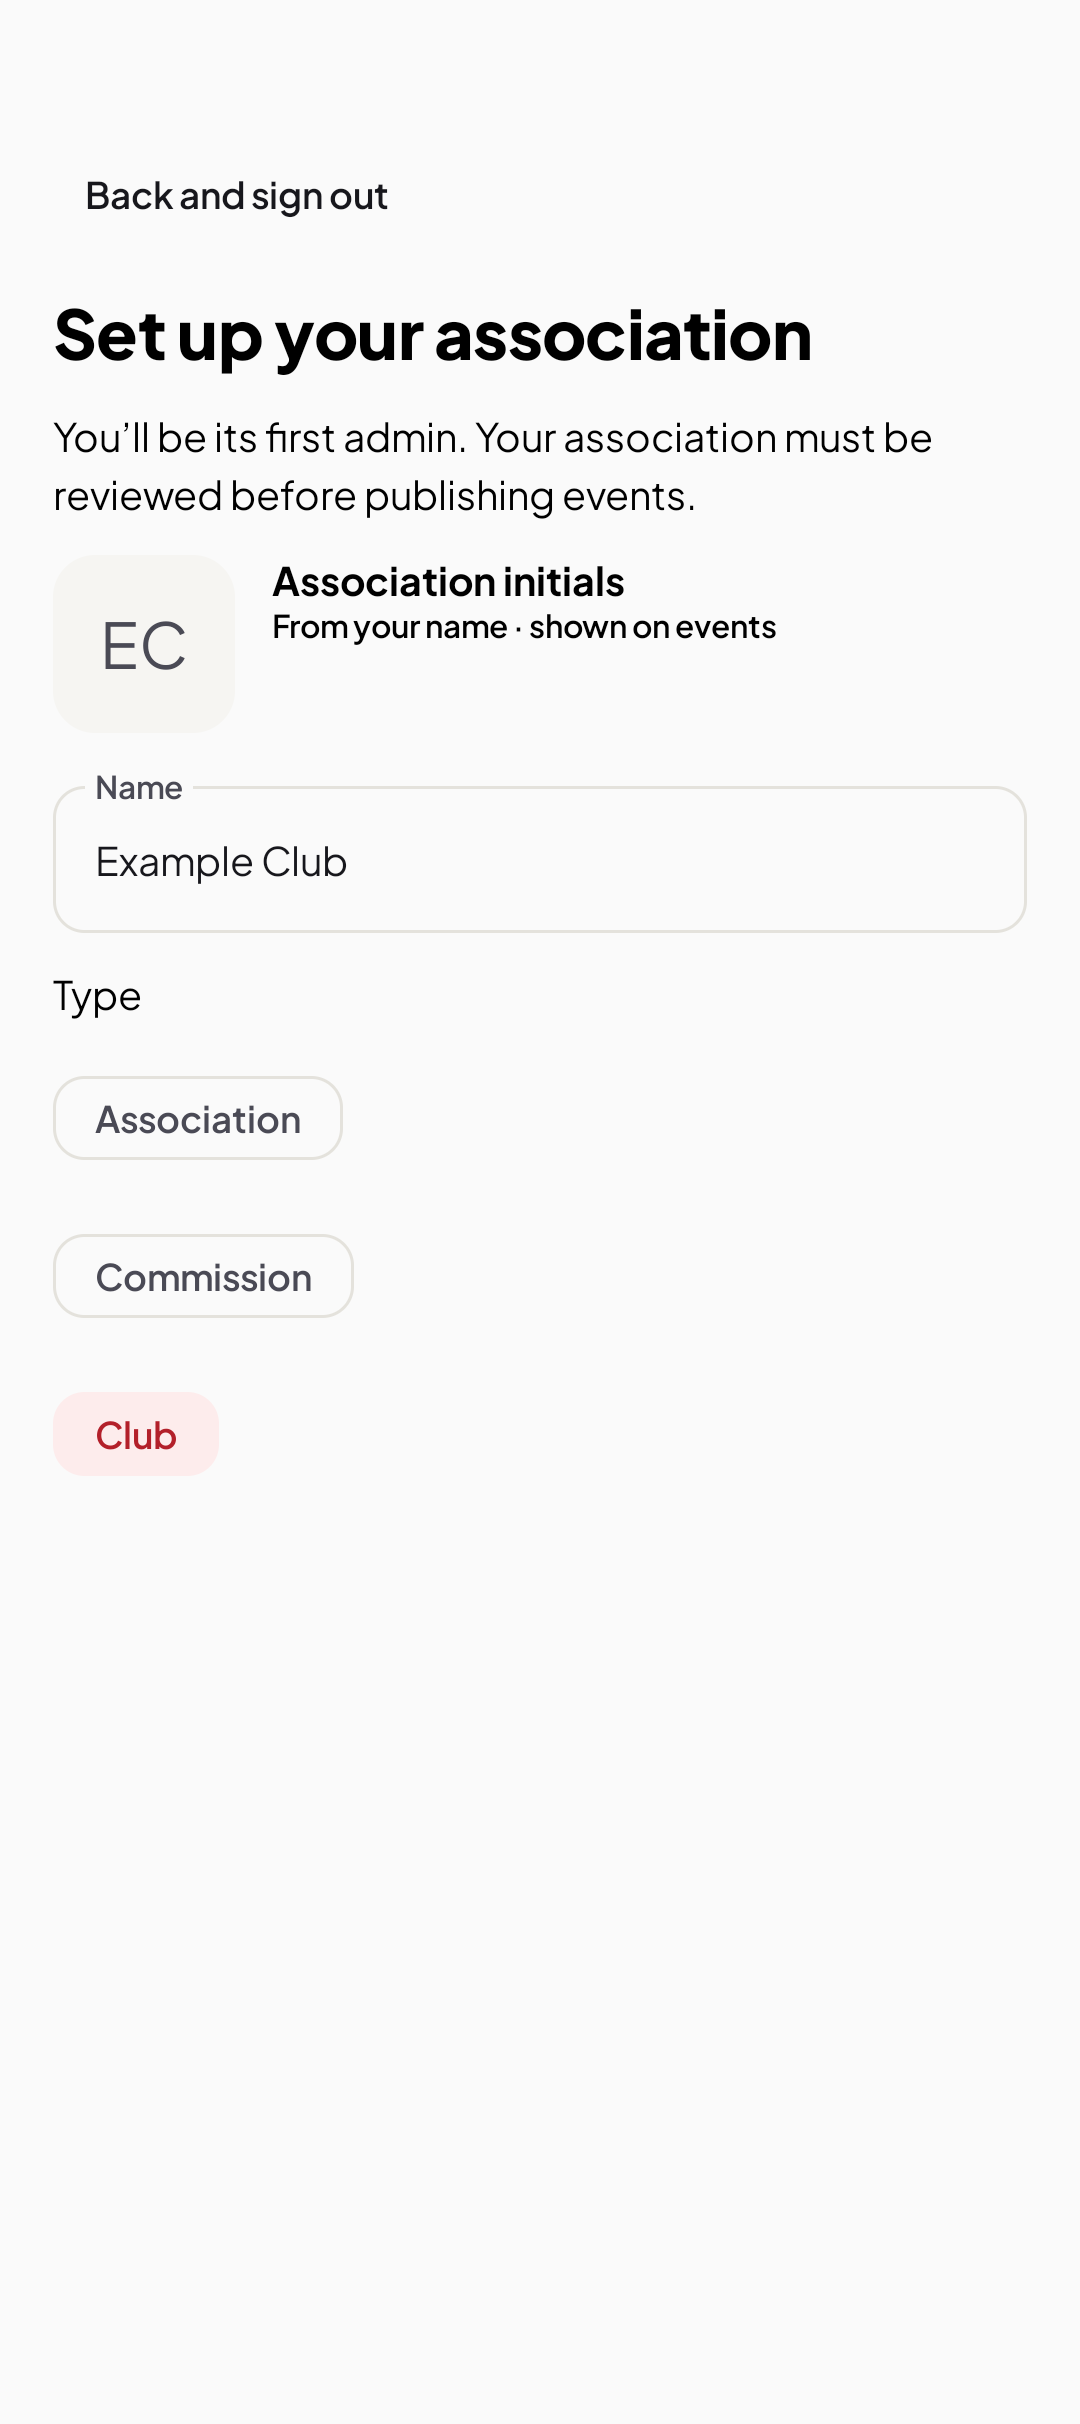
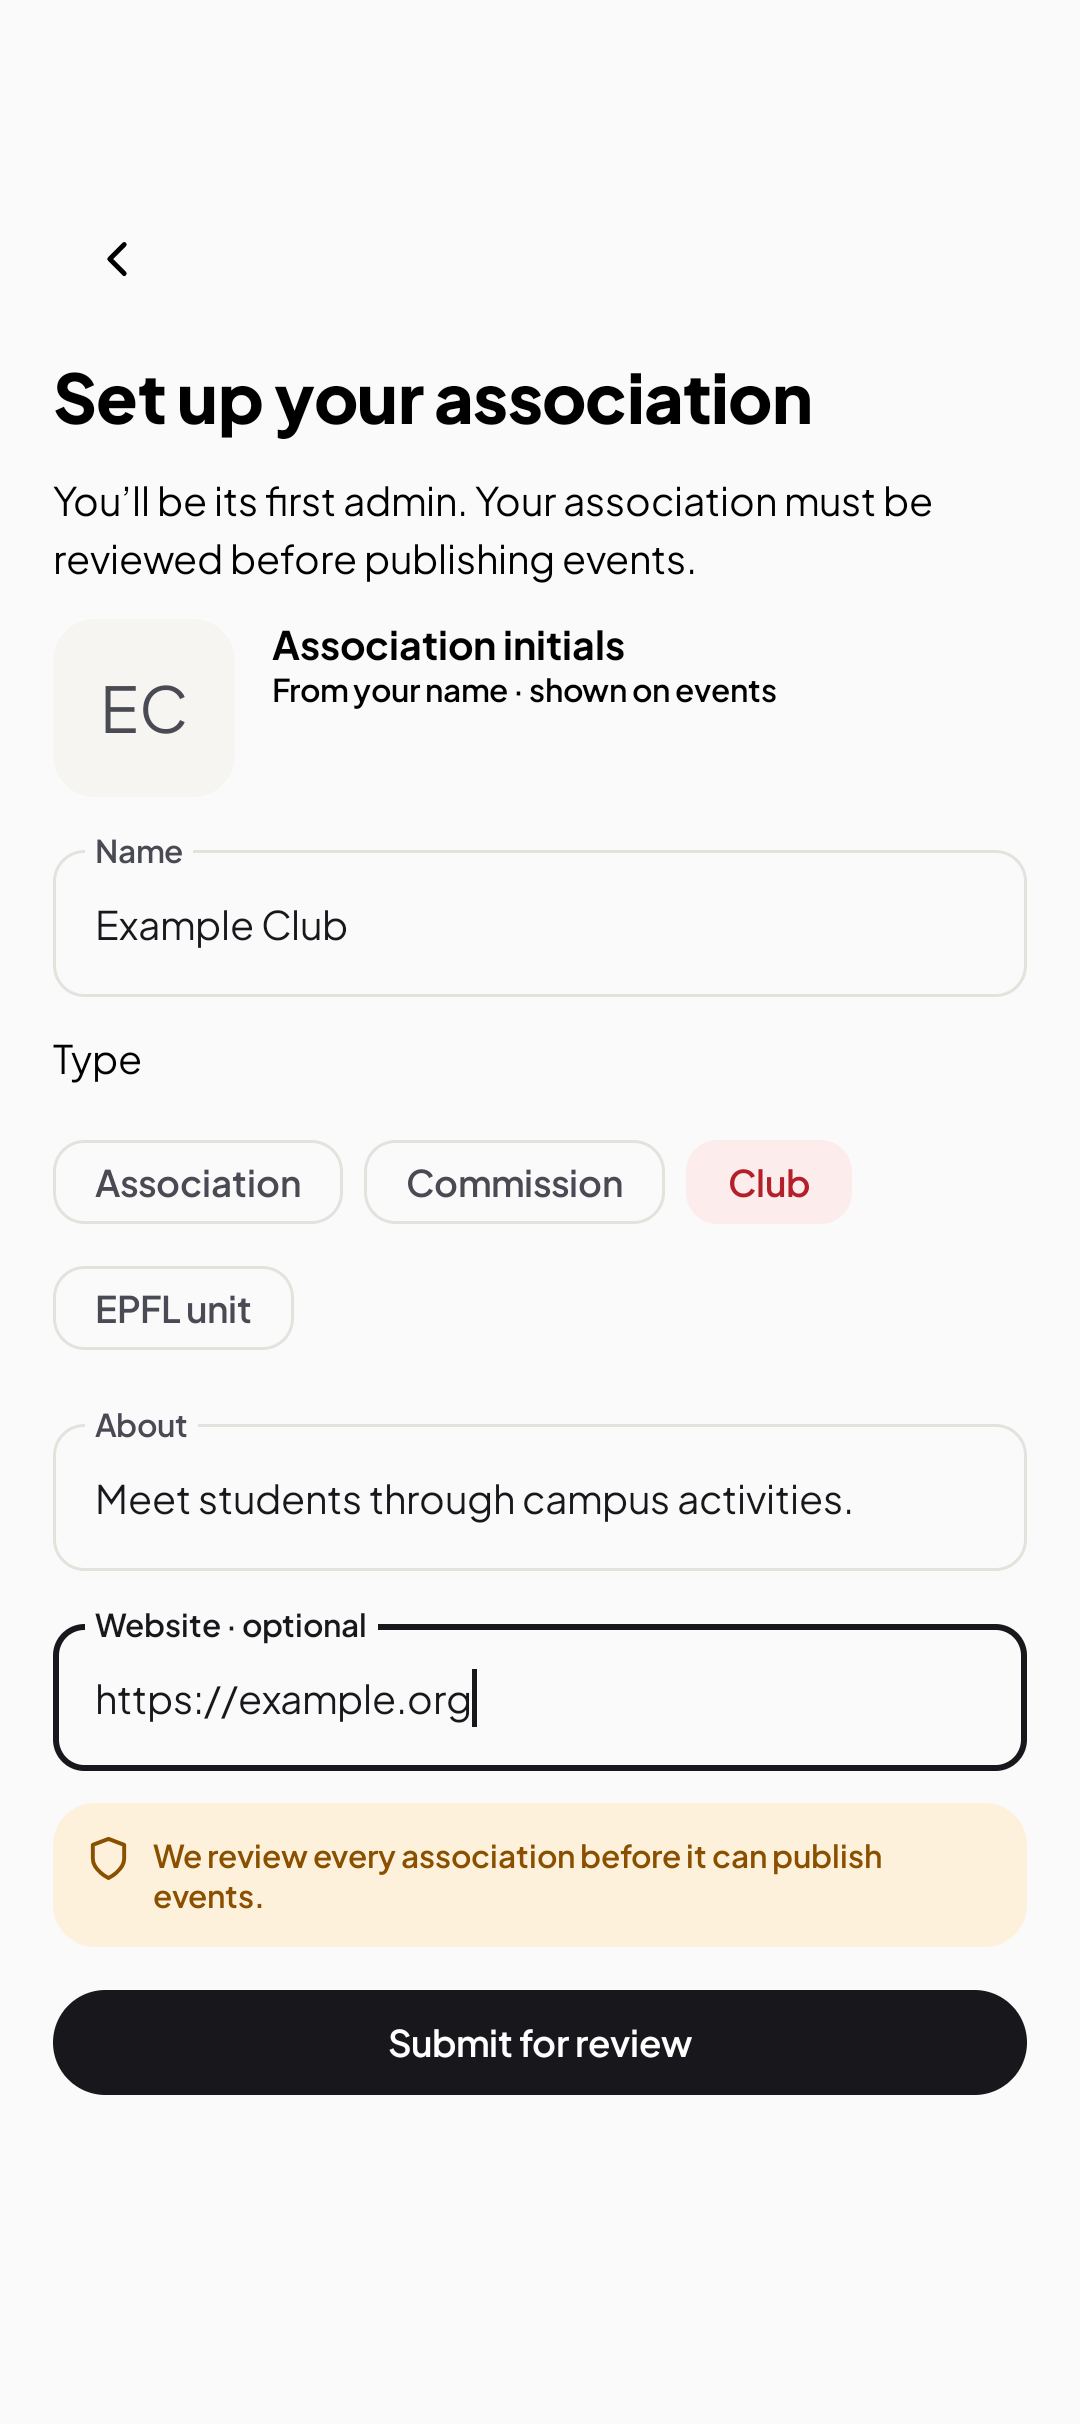
fix(ui): match the association review notice

diff --git a/app/src/main/java/com/polysocial/ui/association/AssociationSetupScreen.kt b/app/src/main/java/com/polysocial/ui/association/AssociationSetupScreen.kt
@@ -7,14 +7,19 @@ import androidx.compose.foundation.rememberScrollState
 import androidx.compose.foundation.verticalScroll
 import androidx.compose.material3.*
 import androidx.compose.runtime.*
+import androidx.compose.ui.Alignment
 import androidx.compose.ui.Modifier
 import androidx.compose.ui.platform.testTag
+import androidx.compose.ui.res.painterResource
 import androidx.compose.ui.res.stringResource
+import androidx.compose.ui.text.font.FontWeight
 import androidx.compose.ui.unit.dp
 import androidx.hilt.lifecycle.viewmodel.compose.hiltViewModel
 import androidx.lifecycle.compose.collectAsStateWithLifecycle
 import com.polysocial.R
 import com.polysocial.model.association.AssociationType
+import com.polysocial.ui.theme.Warning
+import com.polysocial.ui.theme.WarningSoft
 
 object AssociationSetupTags {
   const val Screen = "association_setup"
@@ -22,6 +27,7 @@ object AssociationSetupTags {
   const val Back = "association_setup_back"
   const val Error = "association_setup_error"
   const val Initials = "association_setup_initials"
+  const val ReviewNotice = "association_setup_review_notice"
 
   fun field(field: AssociationSetupField) = "association_setup_${field.name}"
 
@@ -73,8 +79,12 @@ fun AssociationSetupScreen(
           .testTag(AssociationSetupTags.Screen),
       verticalArrangement = Arrangement.spacedBy(12.dp),
   ) {
-    TextButton(onBack, enabled = enabled, modifier = Modifier.testTag(AssociationSetupTags.Back)) {
-      Text(stringResource(R.string.association_setup_back))
+    IconButton(onBack, enabled = enabled, modifier = Modifier.testTag(AssociationSetupTags.Back)) {
+      Icon(
+          painterResource(R.drawable.signup_back),
+          contentDescription = stringResource(R.string.association_setup_back),
+          modifier = Modifier.size(22.dp),
+      )
     }
     Text(
         stringResource(R.string.association_setup_title),
@@ -142,7 +152,30 @@ fun AssociationSetupScreen(
               modifier = Modifier.testTag("${AssociationSetupTags.field(field)}_error"),
           )
     }
-    Text(stringResource(R.string.association_review_notice))
+    Surface(
+        color = WarningSoft,
+        shape = MaterialTheme.shapes.medium,
+        modifier = Modifier.fillMaxWidth().testTag(AssociationSetupTags.ReviewNotice),
+    ) {
+      Row(
+          Modifier.padding(12.dp),
+          horizontalArrangement = Arrangement.spacedBy(8.dp),
+          verticalAlignment = Alignment.Top,
+      ) {
+        Icon(
+            painterResource(R.drawable.ic_shield),
+            contentDescription = null,
+            tint = Warning,
+            modifier = Modifier.size(18.dp),
+        )
+        Text(
+            stringResource(R.string.association_review_notice),
+            color = Warning,
+            style = MaterialTheme.typography.bodySmall,
+            fontWeight = FontWeight.SemiBold,
+        )
+      }
+    }
     state.error?.let {
       Text(
           stringResource(

diff --git a/app/src/androidTest/java/com/polysocial/ui/association/AssociationSetupDeviceTest.kt b/app/src/androidTest/java/com/polysocial/ui/association/AssociationSetupDeviceTest.kt
@@ -61,6 +61,15 @@ class AssociationSetupDeviceTest {
         .performTextInput("https://example.org")
     compose.onNodeWithTag(AssociationSetupTags.Back).performScrollTo()
     compose.onNodeWithTag(AssociationSetupTags.Initials).assertTextEquals("EC")
+    androidx.test.espresso.Espresso.closeSoftKeyboard()
+    val notice =
+        compose
+            .onNodeWithTag(AssociationSetupTags.ReviewNotice)
+            .performScrollTo()
+            .captureToImage()
+            .asAndroidBitmap()
+    assertEquals(0xFFFDF1DC.toInt(), notice.getPixel(notice.width / 2, 3))
+    compose.onNodeWithTag(AssociationSetupTags.Back).performScrollTo()
     capture("association-setup-filled")
     compose.onNodeWithTag(AssociationSetupTags.Submit).performScrollTo().performClick()
     compose.onNodeWithTag(AssociationSetupTags.Error).performScrollTo().assertIsDisplayed()
